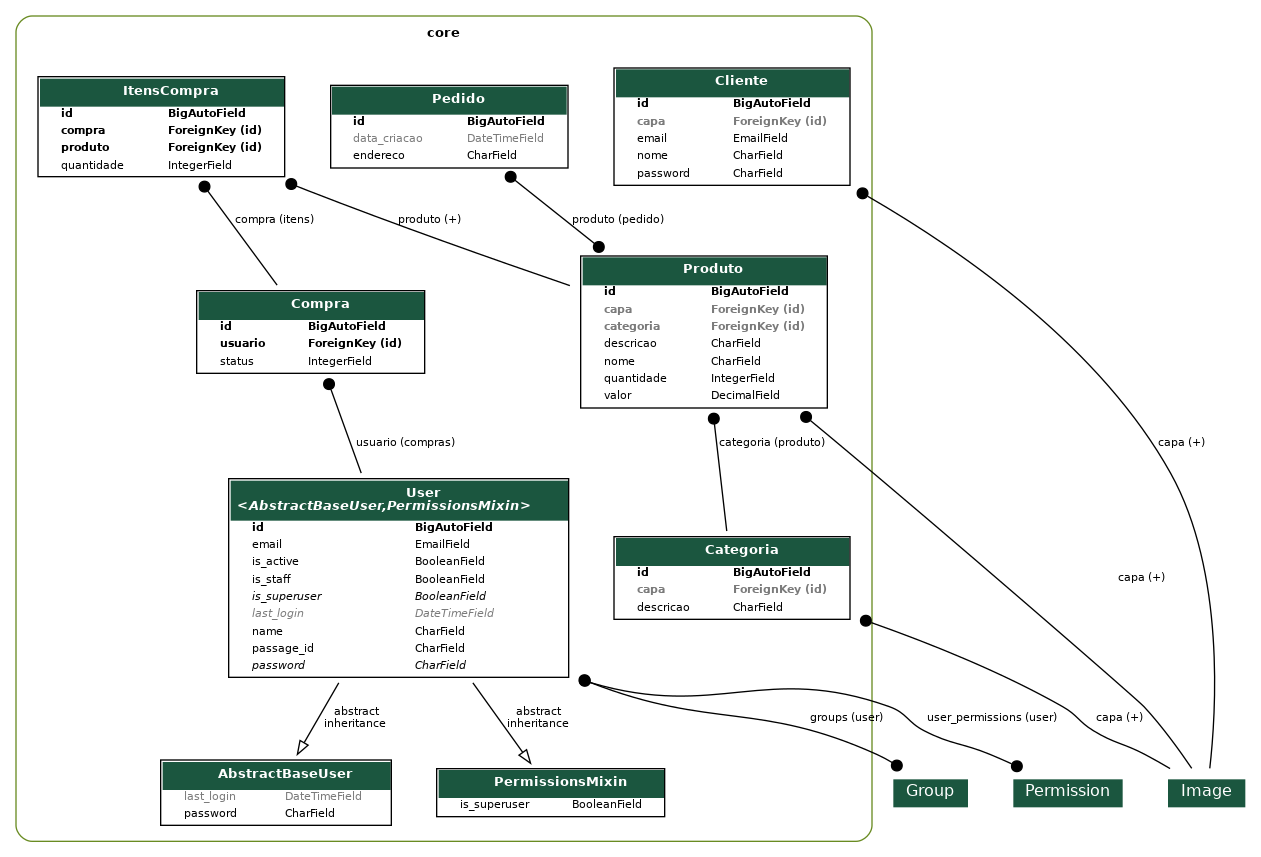
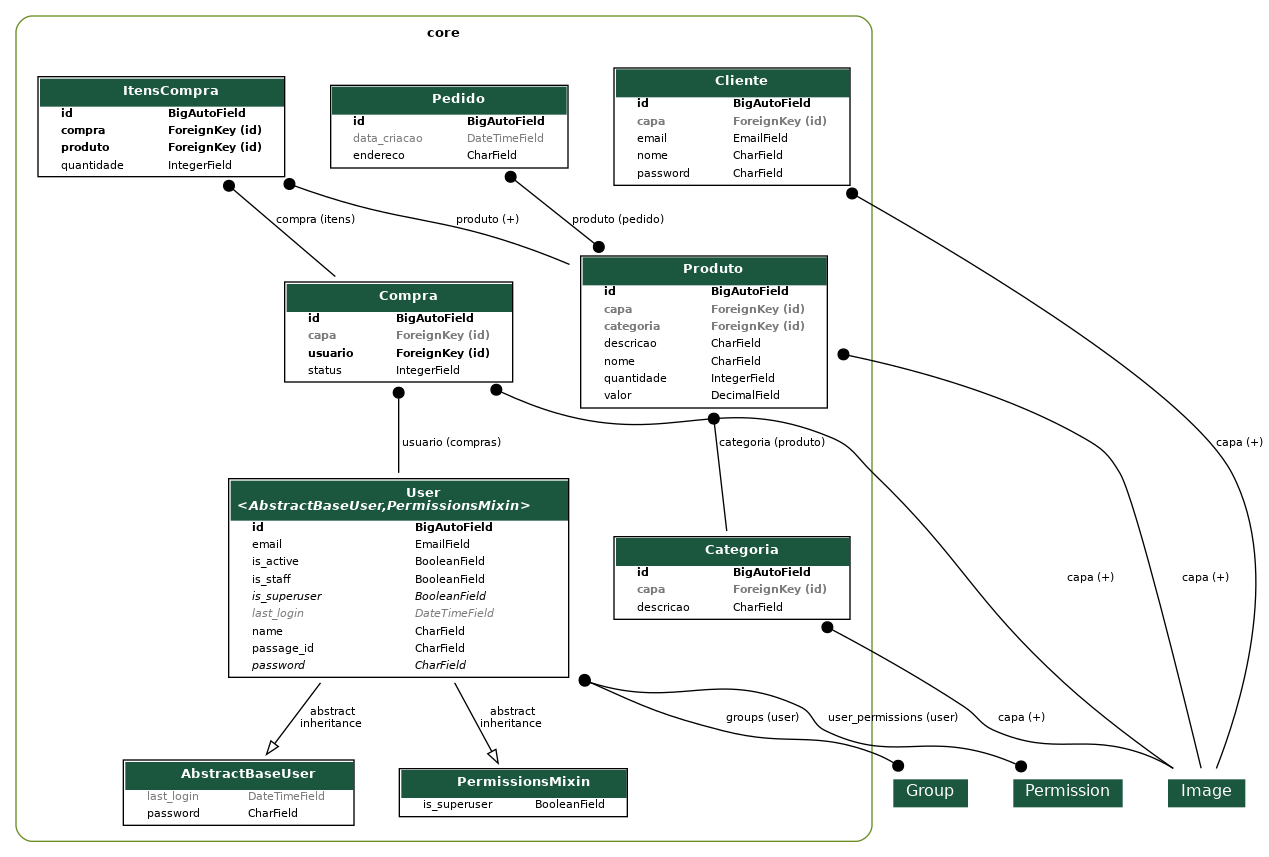
Authentication and authorization

diff --git a/app/settings.py b/app/settings.py
@@ -135,10 +135,15 @@ DEFAULT_AUTO_FIELD = "django.db.models.BigAutoField"
 AUTH_USER_MODEL = "core.User"
 
 REST_FRAMEWORK = {
-    # "DEFAULT_AUTHENTICATION_CLASSES": ("rest_framework_simplejwt.authentication.JWTAuthentication",),
-    # "DEFAULT_PERMISSION_CLASSES": ("rest_framework.permissions.DjangoModelPermissions",),
-    "DEFAULT_AUTHENTICATION_CLASSES": ("core.authentication.TokenAuthentication",), # Autenticação no passage.id
-    "DEFAULT_PERMISSION_CLASSES": ("rest_framework.permissions.DjangoModelPermissionsOrAnonReadOnly", ),  # autorização de acesso
+    "DEFAULT_PERMISSION_CLASSES": [
+        "rest_framework.permissions.IsAuthenticated",
+    ],
+    "DEFAULT_AUTHENTICATION_CLASSES": ("rest_framework_simplejwt.authentication.JWTAuthentication",),
+    "DEFAULT_PERMISSION_CLASSES": ("rest_framework.permissions.DjangoModelPermissions",),
+    "DEFAULT_AUTHENTICATION_CLASSES": ("core.authentication.TokenAuthentication",),  # Autenticação no passage.id
+    "DEFAULT_PERMISSION_CLASSES": (
+        "rest_framework.permissions.DjangoModelPermissionsOrAnonReadOnly",
+    ),  # autorização de acesso
     "DEFAULT_PAGINATION_CLASS": "rest_framework.pagination.PageNumberPagination",
     "DEFAULT_SCHEMA_CLASS": "drf_spectacular.openapi.AutoSchema",
     "PAGE_SIZE": 10,

diff --git a/core/migrations/0018_compra_capa.py b/core/migrations/0018_compra_capa.py
@@ -7,14 +7,21 @@ from django.db import migrations, models
 class Migration(migrations.Migration):
 
     dependencies = [
-        ('core', '0017_itenscompra'),
-        ('uploader', '0001_initial'),
+        ("core", "0017_itenscompra"),
+        ("uploader", "0001_initial"),
     ]
 
     operations = [
         migrations.AddField(
-            model_name='compra',
-            name='capa',
-            field=models.ForeignKey(blank=True, default=None, null=True, on_delete=django.db.models.deletion.SET_NULL, related_name='+', to='uploader.image'),
+            model_name="compra",
+            name="capa",
+            field=models.ForeignKey(
+                blank=True,
+                default=None,
+                null=True,
+                on_delete=django.db.models.deletion.SET_NULL,
+                related_name="+",
+                to="uploader.image",
+            ),
         ),
     ]

diff --git a/core/serializers/compra.py b/core/serializers/compra.py
@@ -4,9 +4,10 @@ from rest_framework.serializers import (
     SerializerMethodField,
     SlugRelatedField,
 )
-from uploader.models import Image
+
 from core.models import Compra, ItensCompra
-from uploader.serializers import CompraImageSerializer, ImageSerializer 
+from uploader.models import Image
+from uploader.serializers import CompraImageSerializer, ImageSerializer
 
 
 class ItensCompraSerializer(ModelSerializer):
@@ -32,6 +33,7 @@ class CompraSerializer(ModelSerializer):
         write_only=True,
     )
     capa = CompraImageSerializer(required=False, read_only=True)
+
     class Meta:
         model = Compra
         fields = ("id", "usuario", "status", "total", "itens", "capa", "capa_attachment_key")

diff --git a/core/views/compra.py b/core/views/compra.py
@@ -1,10 +1,10 @@
+from rest_framework.decorators import api_view, permission_classes
+from rest_framework.permissions import DjangoModelPermissionsOrAnonReadOnly
+from rest_framework.response import Response
 from rest_framework.viewsets import ModelViewSet
 
 from core.models import Compra
 from core.serializers import CompraCreateUpdateSerializer, CompraSerializer
-from rest_framework.decorators import api_view, permission_classes
-from rest_framework.response import Response
-from rest_framework.permissions import DjangoModelPermissionsOrAnonReadOnly
 
 
 class CompraViewSet(ModelViewSet):

diff --git a/core/views/categoria.py b/core/views/categoria.py
@@ -1,3 +1,4 @@
+from rest_framework.permissions import IsAuthenticated
 from rest_framework.viewsets import ModelViewSet
 
 from core.models import Categoria
@@ -7,3 +8,4 @@ from core.serializers import CategoriaSerializer
 class CategoriaViewSet(ModelViewSet):
     queryset = Categoria.objects.all()
     serializer_class = CategoriaSerializer
+    permission_classes = [IsAuthenticated]

diff --git a/uploader/serializers/image.py b/uploader/serializers/image.py
@@ -32,9 +32,9 @@ class ProductImageSerializer(serializers.ModelSerializer):
     class Meta:
         model = Image
         fields = ["url"]
-        
-        
+
+
 class CompraImageSerializer(serializers.ModelSerializer):
-    class Meta: 
+    class Meta:
         models = Image
         fields = ["url"]

diff --git a/core/models/compra.py b/core/models/compra.py
@@ -1,5 +1,7 @@
 from django.db import models
+
 from uploader.models import Image
+
 from .produto import Produto
 from .user import User
 
@@ -21,7 +23,7 @@ class Compra(models.Model):
         blank=True,
         default=None,
     )
-    
+
     @property
     def total(self):
         # total = 0

diff --git a/core/serializers/__init__.py b/core/serializers/__init__.py
@@ -4,4 +4,3 @@ from .produto import ProdutoSerializer, ProdutoPedidoSerializer
 from .cliente import ClienteSerializer
 from .pedido import PedidoSerializer, TotalSerializer, PedidoCreateSerializer
 from .compra import CompraSerializer, CompraCreateUpdateSerializer, ItensCompraSerializer
-

diff --git a/app/urls.py b/app/urls.py
@@ -19,8 +19,6 @@ from core.views import (
     ProdutoViewSet,
     UserViewSet,
 )
-
-
 from uploader.router import router as uploader_router
 
 router = DefaultRouter()
